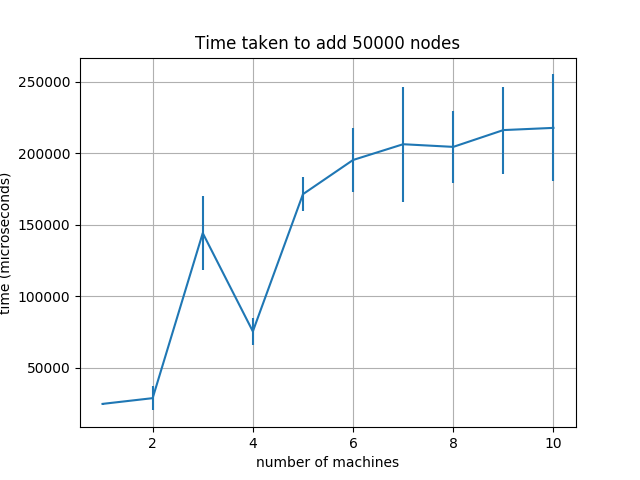
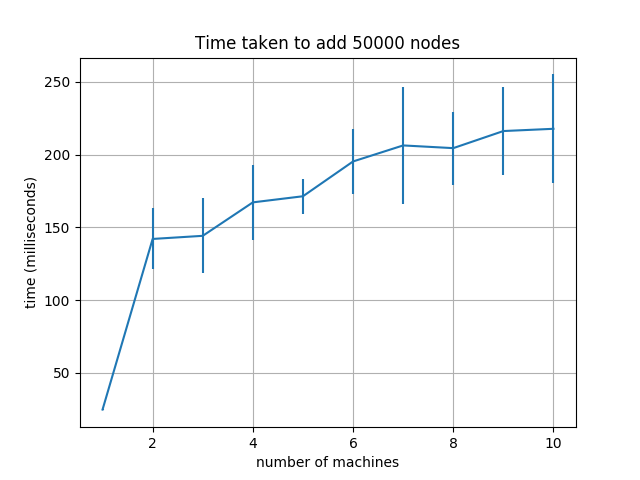
finishing dllama 1 graphs

diff --git a/dllama/create_graphs.py b/dllama/create_graphs.py
@@ -7,9 +7,9 @@ conn = sqlite3.connect('benchmark_data.db')
 c = conn.cursor()
 
 graph_parameters = [('0add_nodes', 'Time taken to add 50000 nodes', 'add_nodes.png'),
-					('0add_edges', 'Time taken to add 100 edges to 5000 nodes', 'add_edges.png'),
-					('0power', 'Time taken to read all 7196 edges from a power-law graph with 1000 nodes', 'power.png'),
-					('0kronecker', 'Time taken to read all 2655 edges from a kronecker graph with 1024 nodes', 'kronecker.png'),
+					('0add_edges', 'Time taken to add 100 edges to 5000 nodes', 'add_edges.png')#,
+					#('0power', 'Time taken to read all 7196 edges from a power-law graph with 1000 nodes', 'power.png'),
+					#('0kronecker', 'Time taken to read all 2655 edges from a kronecker graph with 1024 nodes', 'kronecker.png'),
 					]
 
 for parameters in graph_parameters:
@@ -19,7 +19,7 @@ for parameters in graph_parameters:
 		args = (parameters[0], num_machines)
 		times = []
 		for row in c.execute('SELECT * FROM data WHERE benchmark = ? AND num_machines = ? ORDER BY benchmark', args):
-			times.append(row[3])
+			times.append(row[3] / 1000.0)
 		mean_time = np.mean(times)
 		mean_times.append(mean_time)
 		standard_deviations.append(np.std(times))
@@ -29,59 +29,67 @@ for parameters in graph_parameters:
 	plt.errorbar(t, mean_times, yerr=standard_deviations)
 
 	plt.xlabel('number of machines')
-	plt.ylabel('time (microseconds)')
+	plt.ylabel('time (milliseconds)')
 	plt.title(parameters[1])
 	plt.grid(True)
 	plt.savefig(parameters[2])
 	#plt.show()
 
 
-query_params = ['0read_edges', '0merge_benchmark', '0breadth_first', '0power', '0kronecker']
-means_dllama = []
-std_dllama = []
-for query_param in query_params:
+parameters = [('0read_edges', 'Time taken to read all 100 edges from 5000 nodes', 'read_edges.png'), 
+				('0merge_benchmark', 'Time taken to merge snapshots', 'merge.png'), 
+				('0breadth_first', 'Time taken to complete breadth first search on kronecker graph', 'breadth.png'), 
+				('0power', 'Time taken to read all 7196 edges from a power-law graph with 1000 nodes', 'power.png'), 
+				('0kronecker', 'Time taken to read all 2655 edges from a kronecker graph with 1024 nodes', 'kronecker.png')
+				]
+
+for param in parameters:
+	means_dllama = []
+	std_dllama = []
 	times = []
-	args = (query_param, 1)
+	args = (param[0], 1)
 	for row in c.execute('SELECT * FROM data WHERE benchmark = ? AND num_machines = ? ORDER BY benchmark', args):
 		times.append(row[3])
 	mean_time = np.mean(times)
 	means_dllama.append(mean_time)
 	std_dllama.append(np.std(times))
 
+	n_groups = 2
+
+	#means_dllama = (20, 35, 30, 35, 27)
+	#std_dllama = (2, 3, 4, 1, 2)
+
+	means = [means_dllama[0], 200]
+	stds = [std_dllama[0], 20]
+
+	fig, ax = plt.subplots()
+	index = np.arange(n_groups)
+	bar_width = 0.35
+	opacity = 0.4
+	error_config = {'ecolor': '0.3'}
+
+	rects1 = ax.barh(index, means, bar_width,
+	                alpha=opacity, color='b',
+	                xerr=stds, error_kw=error_config)
+
+	#rects2 = ax.bar(index + bar_width, means_neo4j, bar_width,
+	#                alpha=opacity, color='r',
+	#                yerr=std_neo4j, error_kw=error_config,
+	#                label='Neo4j')
+
+	ax.set_ylabel('Database')
+	ax.set_xlabel('Time (microseconds)')
+	ax.set_title('Time taken for each benchmark')
+	ax.set_yticks(index)
+	ax.set_yticklabels(('DLLAMA', 'Neo4j'))
+	#ax.set_xticklabels(('Read edges', 'Breadth first', 'Power law', 'Kronecker'))
+	ax.legend()
+
+	fig.tight_layout()
+	plt.title(param[1])
+	plt.savefig(param[2])
 
 
-n_groups = 2
 
-#means_dllama = (20, 35, 30, 35, 27)
-#std_dllama = (2, 3, 4, 1, 2)
-
-means = [means_dllama[0], 200]
-stds = [std_dllama[0], 20]
-
-fig, ax = plt.subplots()
-index = np.arange(n_groups)
-bar_width = 0.35
-opacity = 0.4
-error_config = {'ecolor': '0.3'}
-
-rects1 = ax.barh(index, means, bar_width,
-                alpha=opacity, color='b',
-                xerr=stds, error_kw=error_config)
-
-#rects2 = ax.bar(index + bar_width, means_neo4j, bar_width,
-#                alpha=opacity, color='r',
-#                yerr=std_neo4j, error_kw=error_config,
-#                label='Neo4j')
-
-ax.set_ylabel('Database')
-ax.set_xlabel('Time (microseconds)')
-ax.set_title('Time taken for each benchmark')
-ax.set_yticks(index)
-ax.set_yticklabels(('DLLAMA', 'Neo4j'))
-#ax.set_xticklabels(('Read edges', 'Breadth first', 'Power law', 'Kronecker'))
-ax.legend()
-
-fig.tight_layout()
-plt.show()
 
 conn.close()

diff --git a/dllama/load_files_into_db.py b/dllama/load_files_into_db.py
@@ -11,12 +11,12 @@ c.execute('''CREATE TABLE IF NOT EXISTS data
 
 
 #f = open('slurm-702000.out', 'r')
-output_files = [filename for filename in os.listdir('.') if filename.startswith("slurm-")]
+output_files = [filename for filename in os.listdir('output2/with prev') if filename.startswith("slurm-")]
 #output_files = [filename for filename in os.listdir('.') if filename.startswith("test_slurm")]
 
 for filename in output_files:
 	print(filename)
-	f = open(filename, 'r')
+	f = open('output2/with prev/' + filename, 'r')
 	skipped_header = False
 	for line in f:
 		#print(line)
